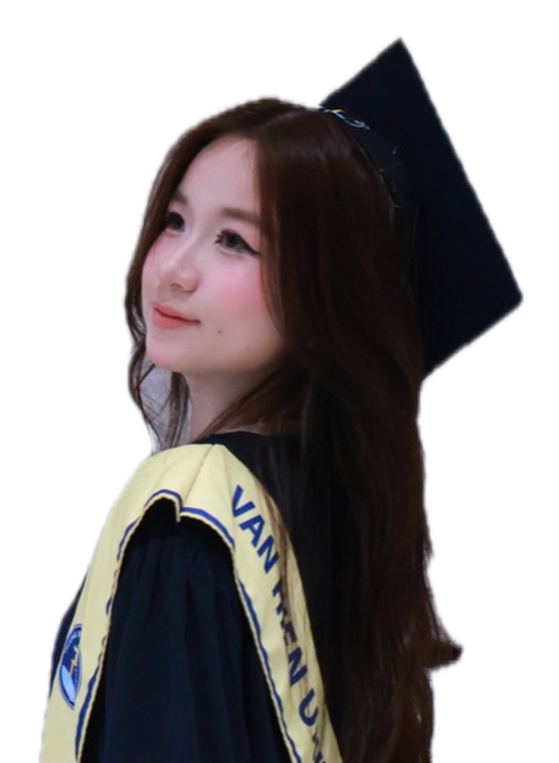
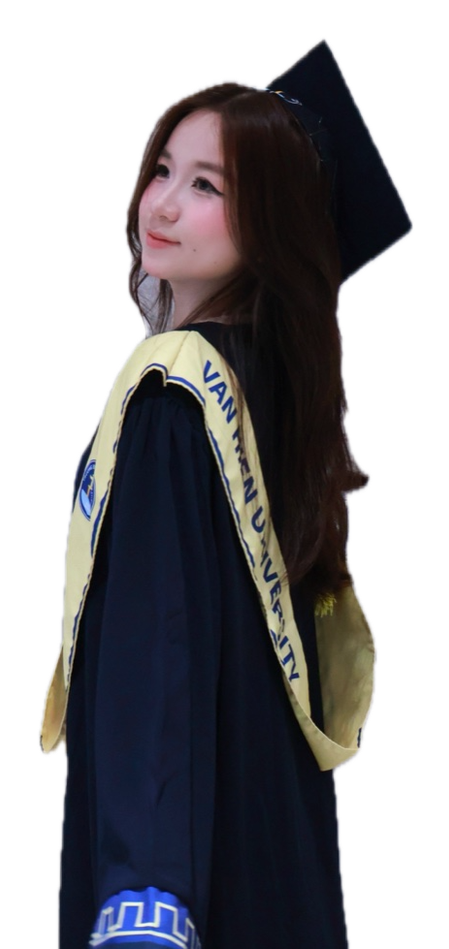
Lengthen envelope sticker cutout to show full upper body down to cuff

diff --git a/css/style.css b/css/style.css
@@ -329,14 +329,14 @@ body.invitation-pending .polaroid-entrance {
 /* Ảnh sticker cắt viền trắng phóng to góc phải dưới khi mở phong bì */
 .env-mini-polaroid {
   position: absolute;
-  right: -34px;
+  right: -30px;
   left: auto;
-  bottom: -16px;
-  width: clamp(120px, 32vw, 142px);
+  bottom: -18px;
+  width: clamp(116px, 30vw, 138px);
   background: transparent;
   padding: 0;
-  filter: drop-shadow(0 8px 18px rgba(74, 44, 24, 0.24));
-  transform: rotate(7deg) scale(0.82);
+  filter: drop-shadow(0 10px 22px rgba(74, 44, 24, 0.28));
+  transform: rotate(6deg) scale(0.82);
   opacity: 0;
   z-index: 11;
   pointer-events: none;
@@ -346,7 +346,7 @@ body.invitation-pending .polaroid-entrance {
 
 .envelope-overlay.opened .env-mini-polaroid {
   opacity: 1;
-  transform: rotate(7deg) scale(1);
+  transform: rotate(6deg) scale(1);
 }
 
 .env-mini-photo-box {

diff --git a/index.html b/index.html
@@ -20,7 +20,7 @@
   <link href="https://fonts.googleapis.com/css2?family=Cormorant+Garamond:wght@500;600;700&family=Dancing+Script:wght@500;600;700&family=Great+Vibes&family=Montserrat:wght@400;500;600;700;800;900&display=swap" rel="stylesheet">
 
   <!-- Stylesheet -->
-  <link rel="stylesheet" href="css/style.css?v=39">
+  <link rel="stylesheet" href="css/style.css?v=40">
 </head>
 <body class="invitation-pending">
 
@@ -459,7 +459,7 @@
 
   <!-- Scripts chức năng -->
   <script src="js/confetti.browser.min.js"></script>
-  <script src="js/config.js?v=39"></script>
-  <script src="js/app.js?v=39"></script>
+  <script src="js/config.js?v=40"></script>
+  <script src="js/app.js?v=40"></script>
 </body>
 </html>

diff --git a/js/config.js b/js/config.js
@@ -33,7 +33,7 @@ const DEFAULT_CONFIG = {
   googleSheetScriptUrl: "https://script.google.com/macros/s/AKfycbyTNQzwT0g5SNDnphPAEqSzdi1UGKqKXmdk4zEV9gdK_hOnwbQSDxBtofYTpqs2ngQoHA/exec",
 
   // Hình ảnh Polaroid & Album
-  envMiniSrc: "assets/photos/photo_1_cutout.png",
+  envMiniSrc: "assets/photos/photo_1_cutout.png?v=2",
   heroBgSrc: "assets/photos/photo_2.jpg",
   filmStripSrc: "assets/photos/photo_1.jpg",
   calendarPolaroidsSrc: "",
